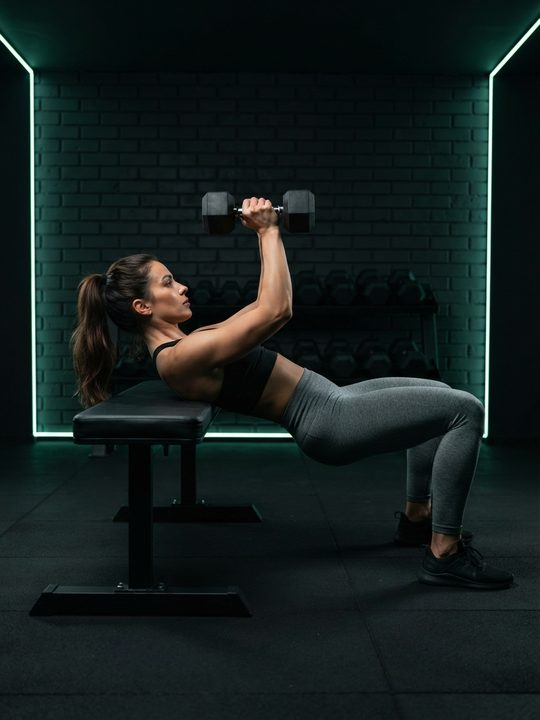
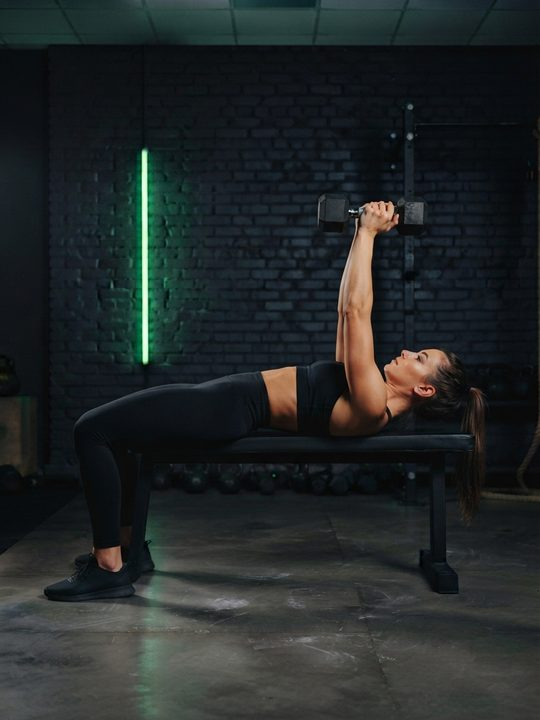
Instruktionsbilder+GIFs: bent-arm_dumbbell_pullover (m/w)
Claude-Session: https://claude.ai/code/session_01PvyiLGJFyas6muFwwubScP

diff --git a/script.js b/script.js
@@ -528,7 +528,7 @@ function renderOverview() {
 // V8-04: Wochenplan-Einträge (haben trainingId) sind anklickbar -> Detailseite mit Dauer/Kalorien.
 // V6-08: Verlauf als Foto-Kacheln mit Wochenkopf, Gruppierung nach Woche/Monat.
 let imgSet = new Set();
-fetch('img/index.json?v=21').then(r => r.json()).then(a => { imgSet = new Set(a); }).catch(() => {});
+fetch('img/index.json?v=22').then(r => r.json()).then(a => { imgSet = new Set(a); }).catch(() => {});
 function slugOf(g) { return (g || '').replace(/^gifs\//, '').replace(/\.gif$/, ''); }
 // Foto passend zum Profil (m/w); ohne Foto -> GIF
 function imgOf(ex) {
